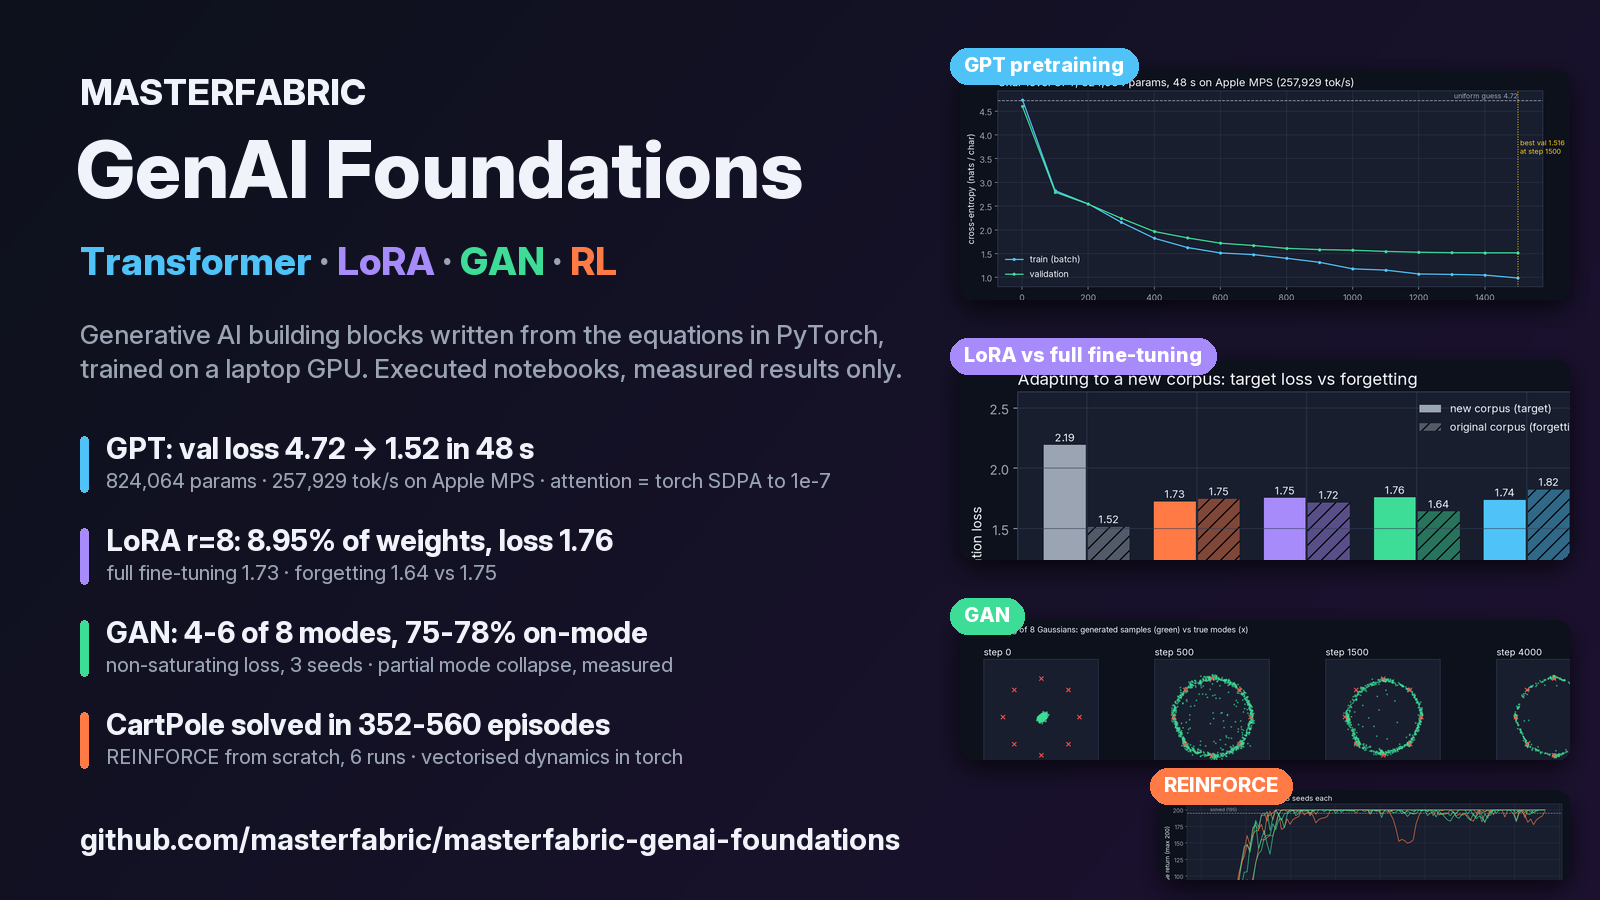
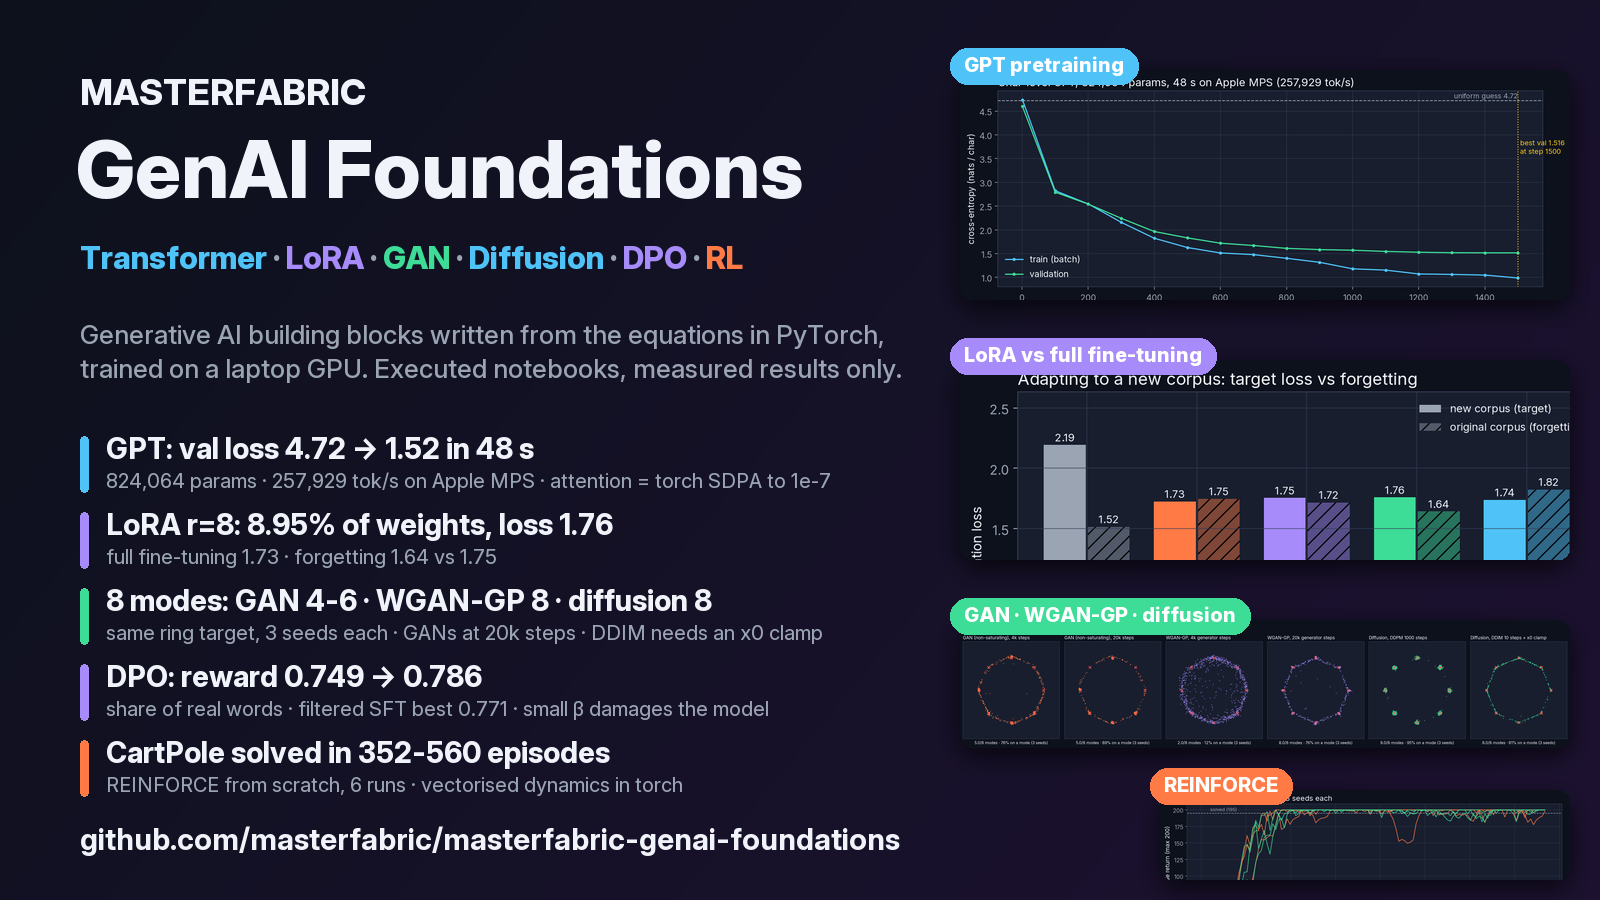
hero: diffusion, DPO and the ring comparison, read from results

diff --git a/viz/make_hero.py b/viz/make_hero.py
@@ -51,20 +51,22 @@ def card(base, path, box, label, color, crop=None):
 
 def main():
     g, lo, ga, rl = load("gpt_pretrain"), load("lora"), load("gan"), load("rl")
+    gl, wg, df, dp = load("gan_long"), load("wgan_gp"), load("diffusion"), load("dpo")
     runs = {r["method"]: r for r in lo["runs"]}
     ns = [r["final"] for r in ga["runs"] if r["loss"] == "non_saturating"]
     eps = [r["first_update_at_195"] for r in rl["runs"]]
     im = background()
     card(im, IMG / "gpt_loss.png", (960, 70, 1570, 300), "GPT pretraining", ICE)
     card(im, IMG / "lora.png", (960, 360, 1570, 560), "LoRA vs full fine-tuning", PURPLE, crop=(0, 0, 1130, 720))
-    card(im, IMG / "gan.png", (960, 620, 1570, 760), "GAN", GREEN, crop=(0, 0, 2050, 580))
+    card(im, IMG / "ring_compare.png", (960, 620, 1570, 760), "GAN · WGAN-GP · diffusion", GREEN)
     card(im, IMG / "rl.png", (1160, 790, 1570, 880), "REINFORCE", ORANGE)
     d = ImageDraw.Draw(im)
     d.text((80, 70), "MASTERFABRIC", font=font(36, 800), fill=WHITE)
     d.text((76, 120), "GenAI Foundations", font=font(80, 800), fill=WHITE)
     x, y = 80, 238
-    for word, col in (("Transformer", ICE), (" · ", GREY), ("LoRA", PURPLE), (" · ", GREY), ("GAN", GREEN), (" · ", GREY), ("RL", ORANGE)):
-        f = font(38, 800)
+    for word, col in (("Transformer", ICE), (" · ", GREY), ("LoRA", PURPLE), (" · ", GREY), ("GAN", GREEN), (" · ", GREY),
+                      ("Diffusion", ICE), (" · ", GREY), ("DPO", PURPLE), (" · ", GREY), ("RL", ORANGE)):
+        f = font(31, 800)
         d.text((x, y), word, font=f, fill=col)
         x += d.textlength(word, font=f)
     d.text((80, 318), "Generative AI building blocks written from the equations in PyTorch,", font=font(26, 500), fill=GREY)
@@ -76,9 +78,14 @@ def main():
         (f"LoRA r=8: {r8['trainable_pct']}% of weights, loss {r8['val_new']:.2f}",
          f"full fine-tuning {runs['full fine-tuning']['val_new']:.2f} · forgetting {r8['val_original']:.2f} vs "
          f"{runs['full fine-tuning']['val_original']:.2f}", PURPLE),
-        (f"GAN: {min(r['modes_covered'] for r in ns)}-{max(r['modes_covered'] for r in ns)} of 8 modes, "
-         f"{min(r['high_quality_pct'] for r in ns):.0f}-{max(r['high_quality_pct'] for r in ns):.0f}% on-mode",
-         "non-saturating loss, 3 seeds · partial mode collapse, measured", GREEN),
+        (f"8 modes: GAN {min(r['final']['modes_covered'] for r in gl['runs'])}-{max(r['final']['modes_covered'] for r in gl['runs'])}"
+         f" · WGAN-GP {min(r['final']['modes_covered'] for r in wg['budgets']['20000']['runs'])}"
+         f" · diffusion {min(r['samplers']['DDPM 1000']['modes_covered'] for r in df['ring'])}",
+         "same ring target, 3 seeds each · GANs at 20k steps · DDIM needs an x0 clamp", GREEN),
+        (lambda b, r: (f"DPO: reward {r['reward']:.3f} → {b['reward']:.3f}",
+                       f"share of real words · filtered SFT best {max(m['reward'] for m in dp['methods'] if m['beta'] is None and m.get('lr')):.3f}"
+                       f" · small β damages the model", PURPLE))(
+            max((m for m in dp["methods"] if m["beta"]), key=lambda m: m["reward"]), dp["methods"][0]),
         (f"CartPole solved in {min(eps)}-{max(eps)} episodes",
          "REINFORCE from scratch, 6 runs · vectorised dynamics in torch", ORANGE),
     ]
@@ -87,7 +94,7 @@ def main():
         d.rounded_rectangle((80, y + 6, 88, y + 62), radius=4, fill=col)
         d.text((106, y), title, font=font(29, 750), fill=WHITE)
         d.text((106, y + 38), sub, font=font(20, 450), fill=GREY)
-        y += 92
+        y += 76
     d.text((80, 820), "github.com/masterfabric/masterfabric-genai-foundations", font=font(30, 700), fill=WHITE)
     im.save(DOCS / "hero.png", optimize=True)
     print("docs/hero.png written")
